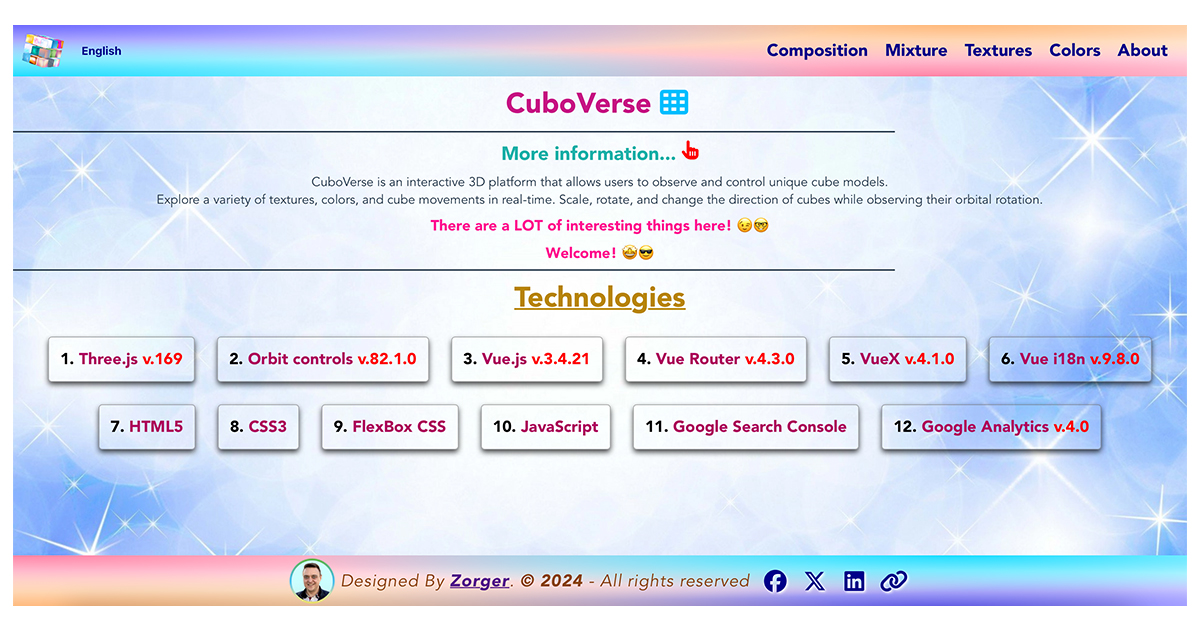
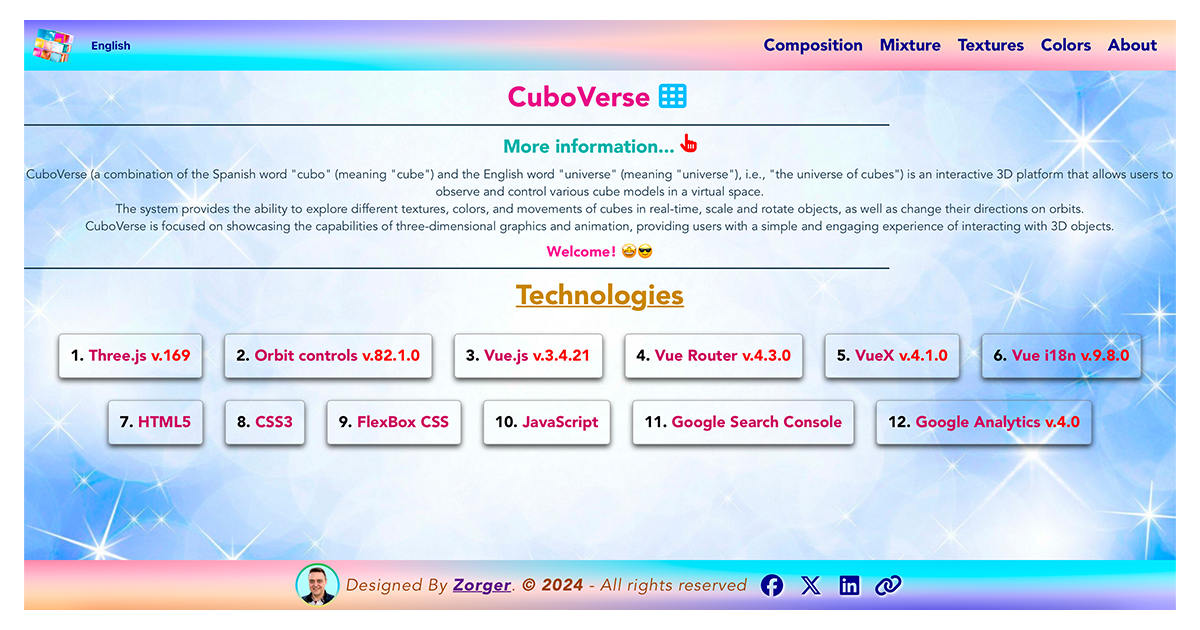
Small changes

Changed region(s): [[0.0, 0.0302, 1.0, 0.9952]]

diff --git a/src/views/menu/AboutView.vue b/src/views/menu/AboutView.vue
@@ -46,7 +46,7 @@ export default {
                                                                              class="fas fa-hand-pointer"></i></h2>
     <p v-if="showMore" style="margin: 0">{{$t ('about.more02')}}</p>
     <p v-if="showMore" style="margin: 0">{{$t ('about.more03')}}</p>
-    <h3 v-if="showMore" style="color: deeppink; margin: 0.5rem">{{$t ('about.more04')}}</h3>
+    <p v-if="showMore" style="margin: 0">{{$t ('about.more04')}}</p>
     <h3 v-if="showMore" style="color: deeppink; margin: 0.5rem">{{$t ('about.more05')}}</h3>
     <line></line>
     <div v-if="tableView" class="table">

diff --git a/README.md b/README.md
@@ -4,8 +4,9 @@
 ### Technologies: Three.js, Orbit controls, Vue.js, VueX, HTML5, CSS3, FlexBox CSS, JavaScript, TypeScript. ###
 ![Cube 07-11-2024](https://github.com/user-attachments/assets/738da3d6-79ed-45df-8384-3c38cf6191b8)
 
-#### *CuboVerse is an interactive 3D platform that allows users to observe and control unique cube models.<br/>* ####
-#### *Explore a variety of textures, colors, and cube movements in real-time. Scale, rotate, and change the direction of cubes while observing their orbital rotation.* ####
+#### *CuboVerse (a combination of the Spanish word "cubo" (meaning "cube") and the English word "universe" (meaning "universe"), i.e., "the universe of cubes") is an interactive 3D platform that allows users to observe and control various cube models in a virtual space.<br/>* ####
+#### *The system provides the ability to explore different textures, colors, and movements of cubes in real-time, scale and rotate objects, as well as change their directions on orbits.* ####
+#### *CuboVerse is focused on showcasing the capabilities of three-dimensional graphics and animation, providing users with a simple and engaging experience of interacting with 3D objects.* ####
 
 ### Project setup (install dependencies)
 ```
